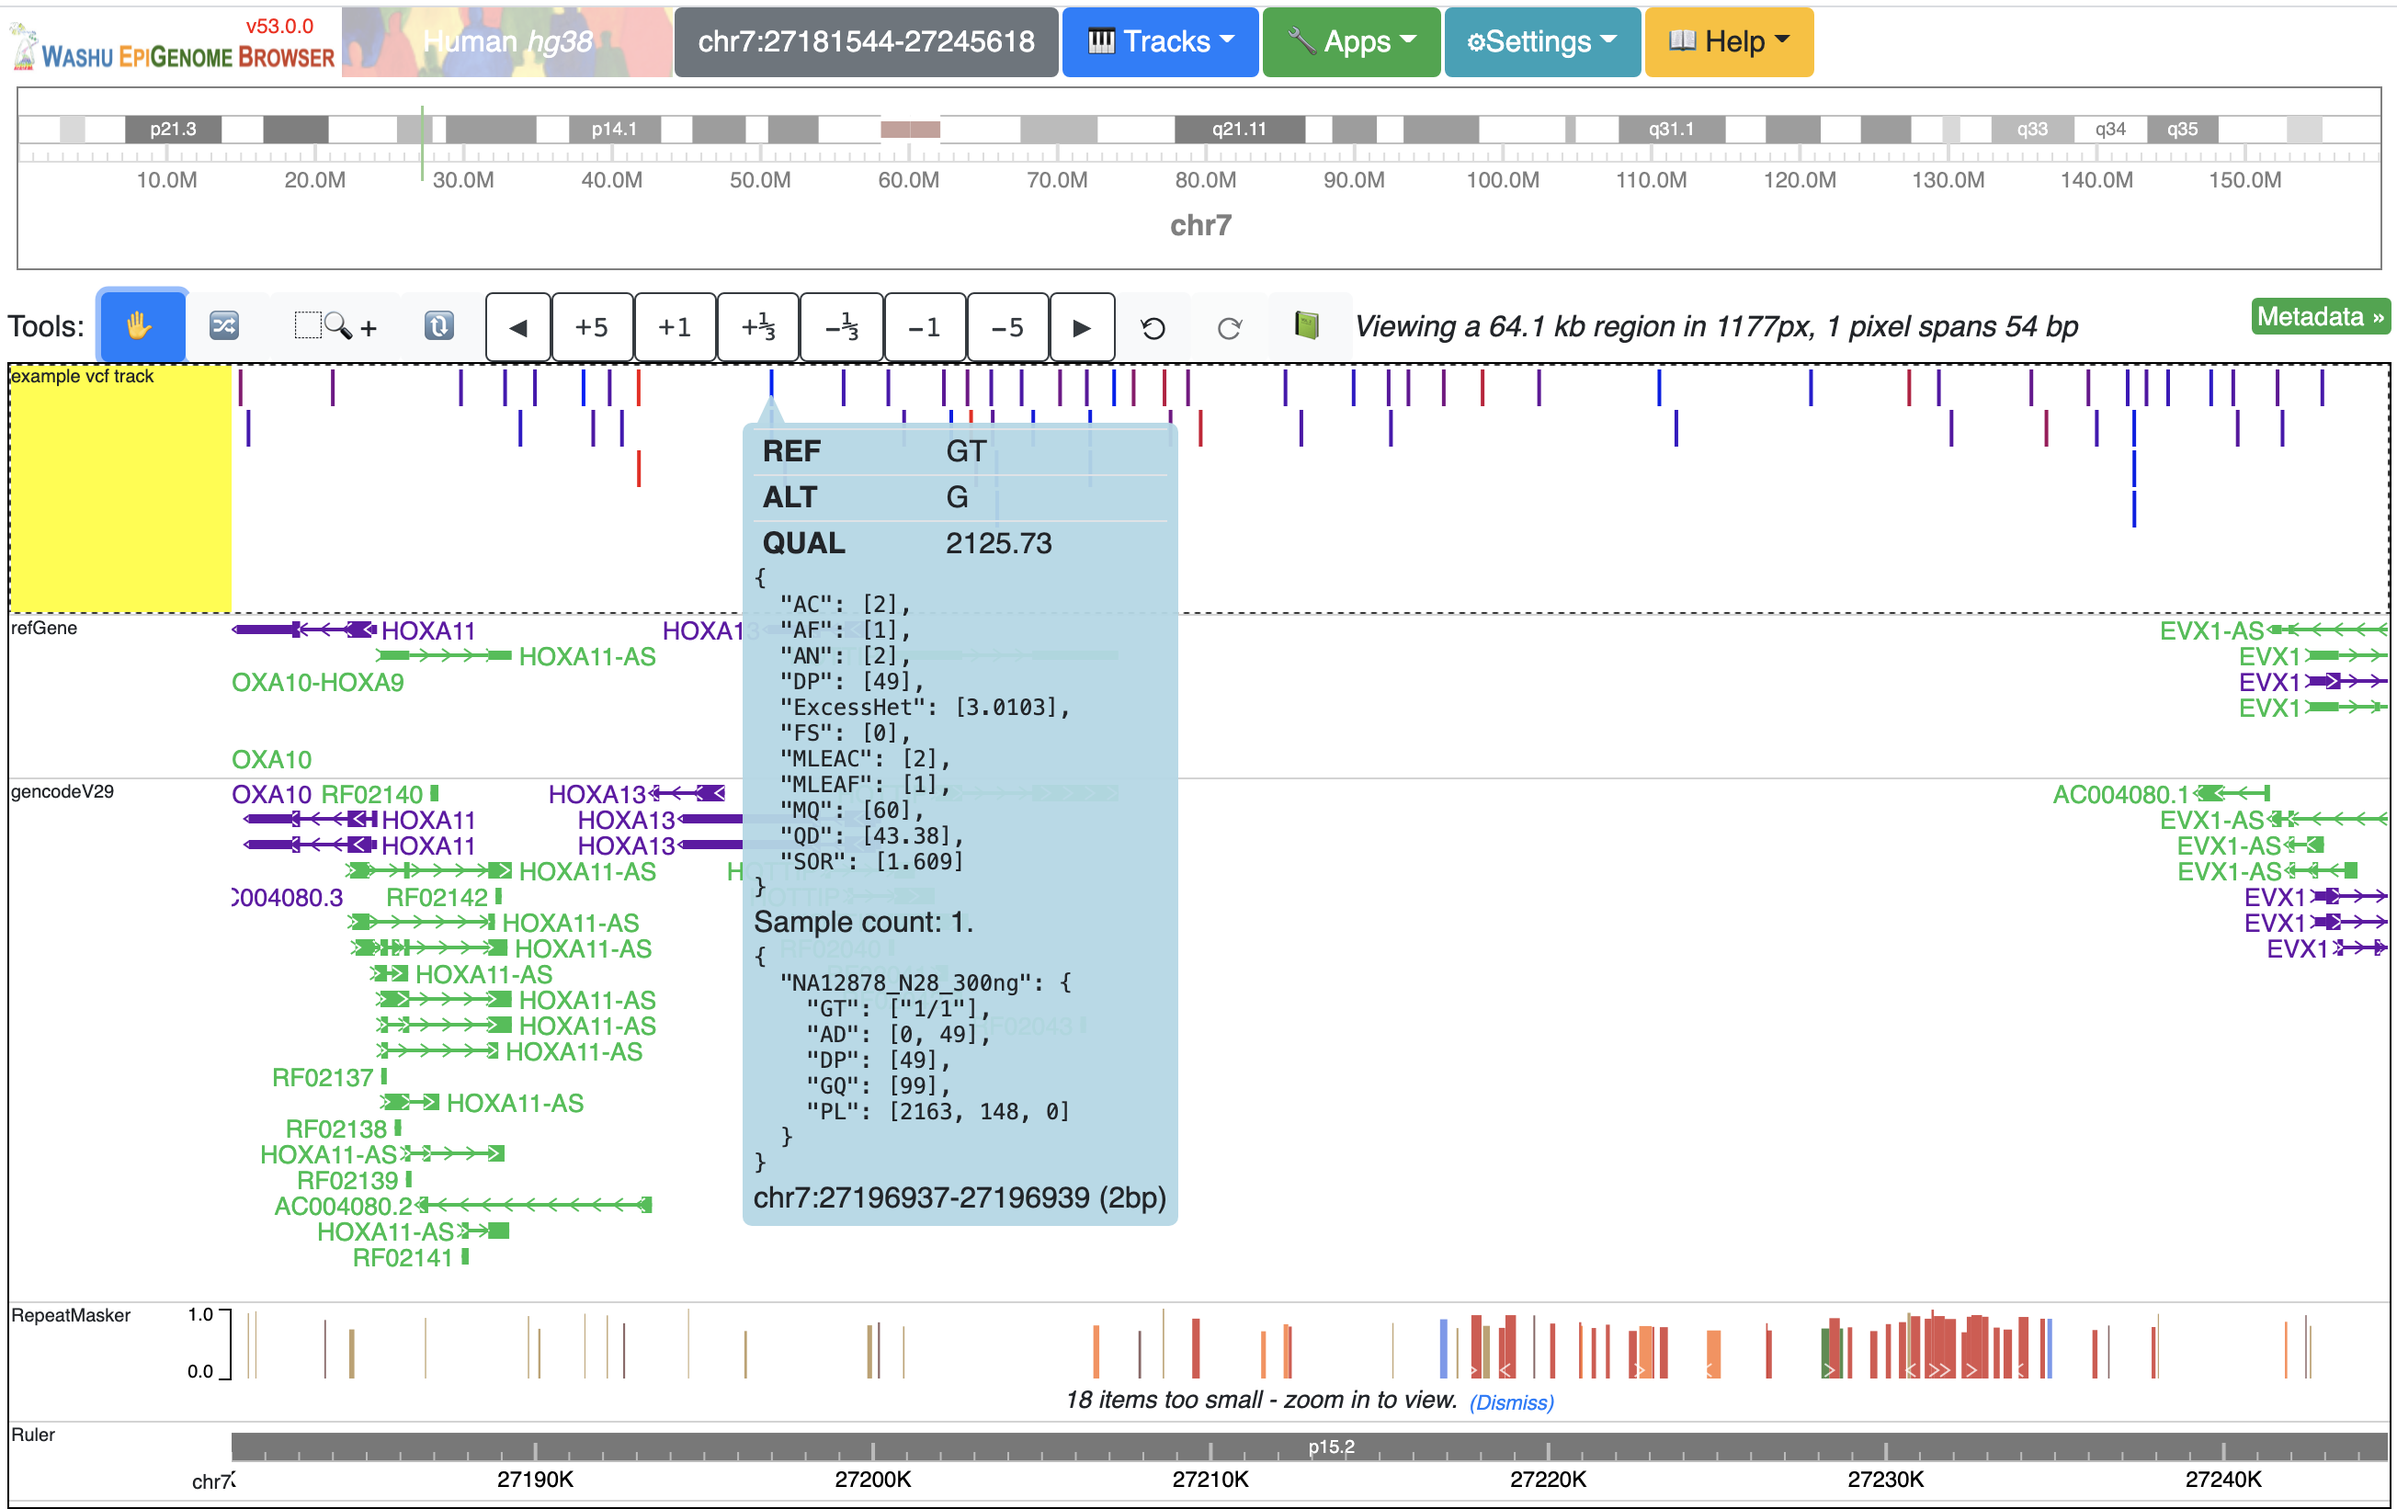
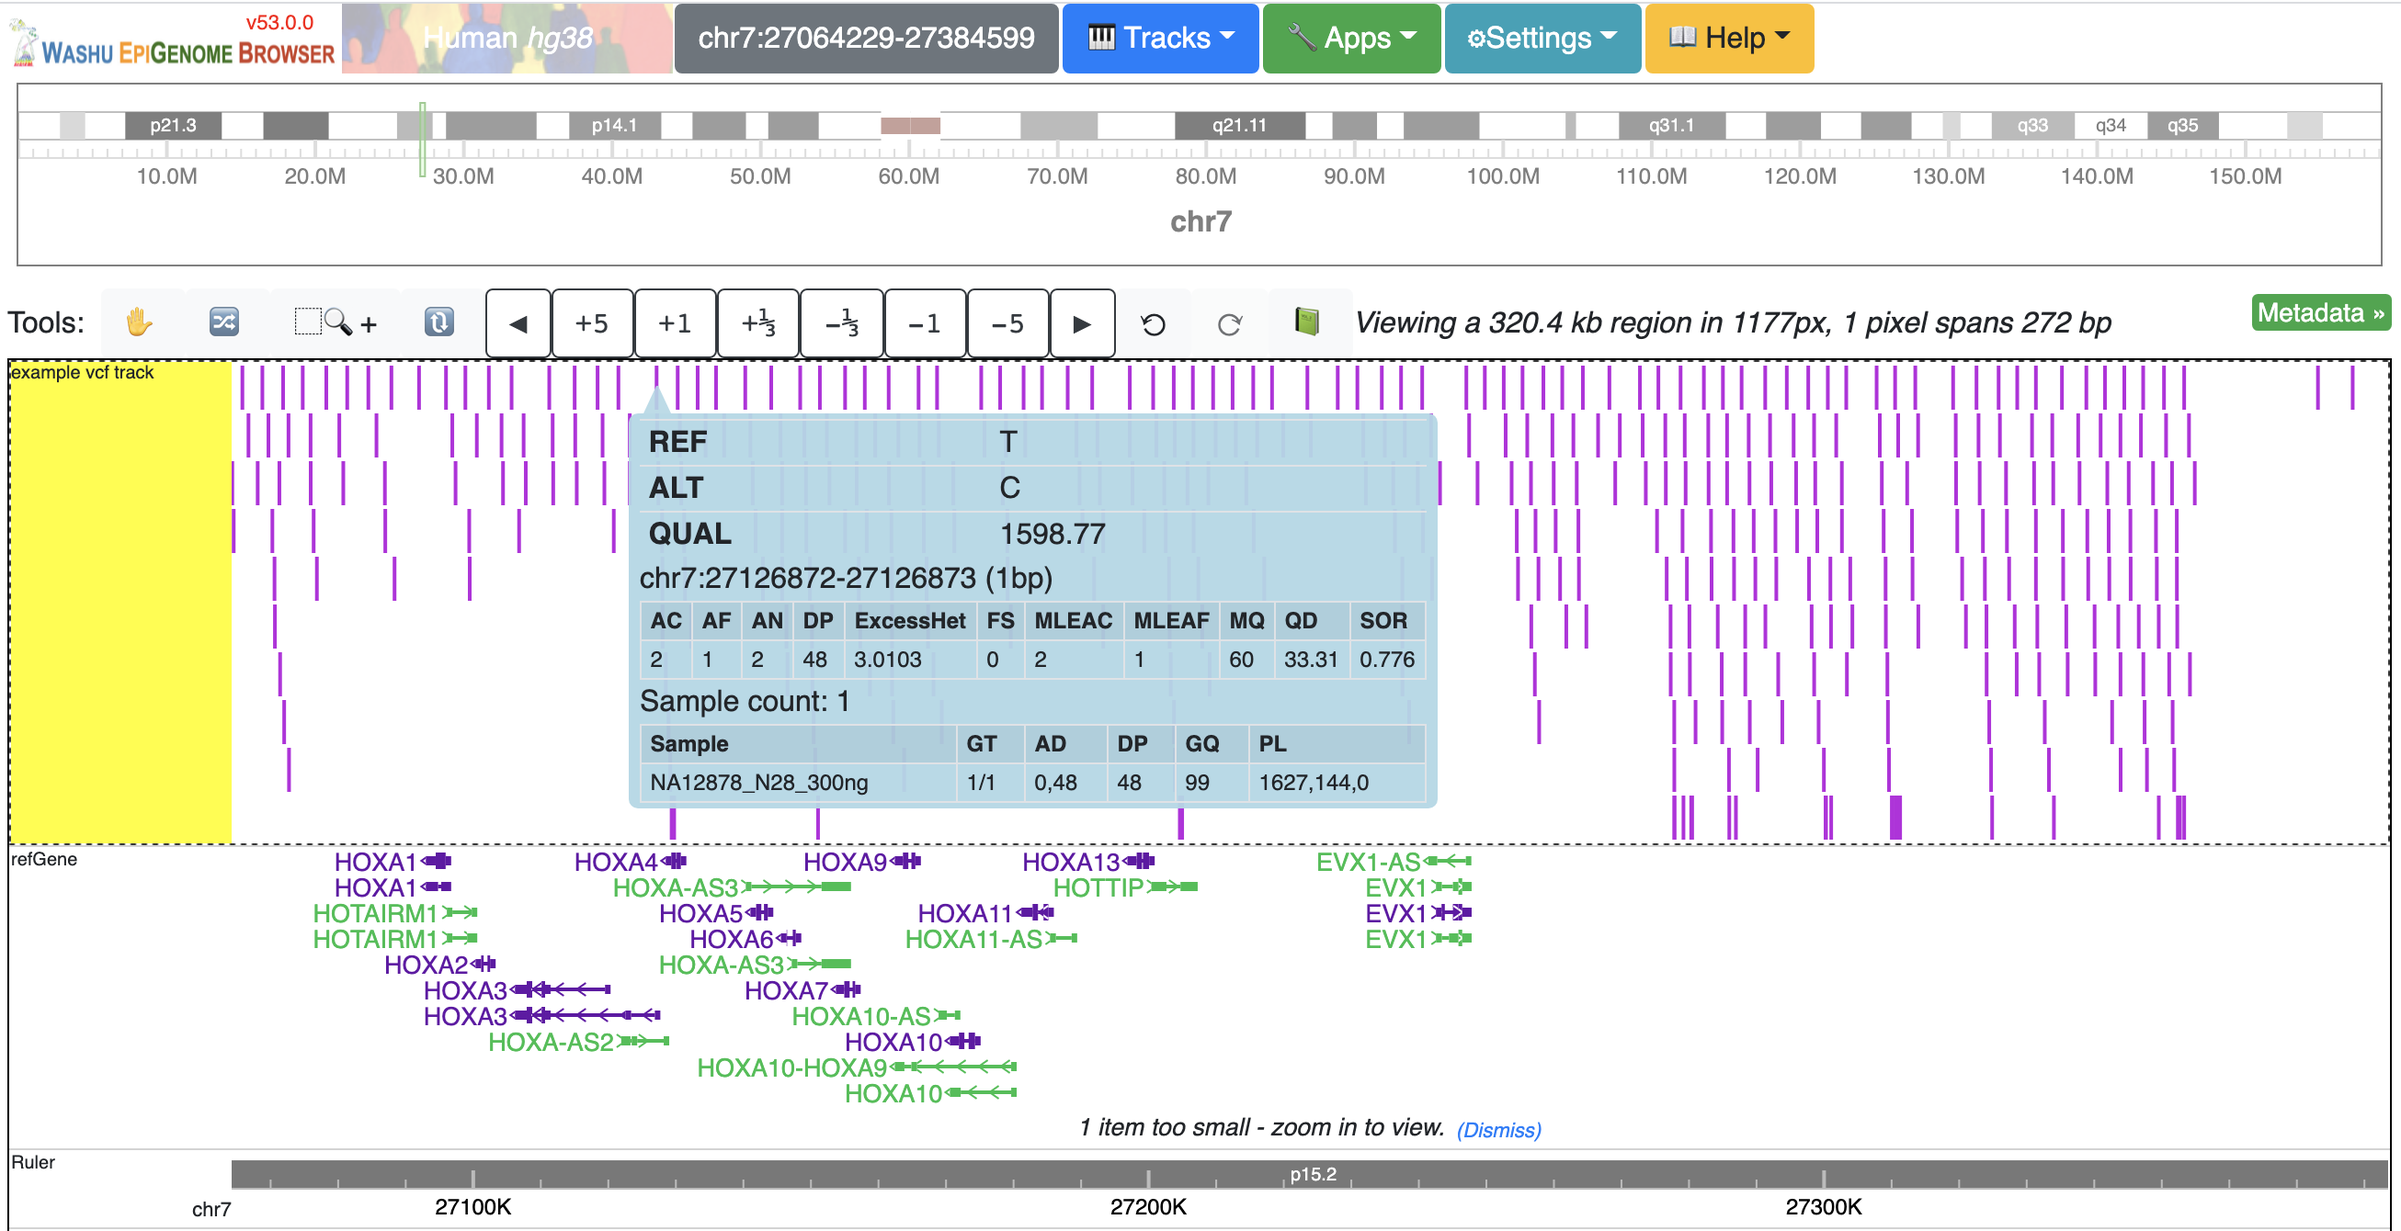
vcf2

diff --git a/docs/tracks.rst b/docs/tracks.rst
@@ -275,12 +275,12 @@ VCF
 ~~~
 
 ``VCF`` files can be visulaized in the browser for displaying variant call data. Currently VCF file need to be bgzip and tabix indexed for submission.
-When viewing a ``VCF`` track at a region greater than 100Kb, the track will be displayed as numerical track showing the density of the variant calls. When view region is less than or equal to 100Kb, it will be displayed in Full mode.
-Click each of the variant item will show the popup tooltip with more information about this variant. 
+The VCF track has 3 display modes: `auto`, `density` and `full`. By default it's on `auto` mode, this means when viewing a ``VCF`` track at a region greater than 100Kb, the track will be displayed as numerical track showing the density of the variant calls, and when view region is less than or equal to 100Kb, it will be displayed in Full mode.
+The display mode can be changed from the right clicking menu. Click each of the variant item will show the popup tooltip with more information about this variant. 
 
 .. image:: _static/vcf1.png
 
-Color of each variant item are encoded based on the quality value, color of high  and low quality variant can be customized from right clicking menu.
+Color of each variant item are encoded based on the AF or quality value, using which value (AF or quality) to color the variant, or color of high and low value variant can be customized from right clicking menu as well.
 
 .. image:: _static/vcf2.png
 
